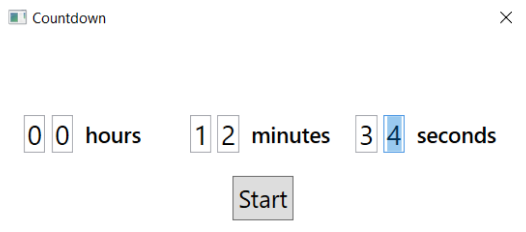
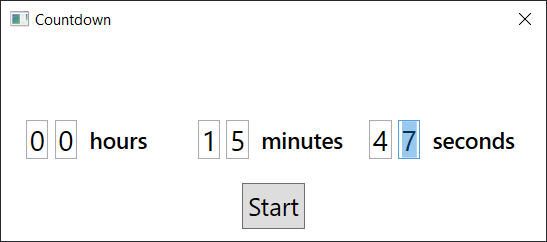
Update lightbox and fix images

diff --git a/src/routes/projects.svelte b/src/routes/projects.svelte
@@ -1,13 +1,15 @@
 <script>
     import ProjectListing from "../lib/components/ProjectListing.svelte"
+    import LightImg from "../lib/components/LightImg.svelte"
 </script>
 
 <div class="projects">
     <h1>Projects</h1>
     <div class="demos">
         <ProjectListing title="School entrance exam manager"
+                        id="exam"
                         bubbles="{[
-                            ['Fullstack webapp', '#18AC00'], ['JS & TypeScript', '#EFD81D'], ['React', '#61DAFB'],
+                            ['Fullstack webapp', '#18AC00'], ['JS & TypeScript', '#CDB70E'], ['React', '#61DAFB'],
                             ['C# & ASP.NET', '#3A008C'], ['GraphQL', '#E632AC'], ['Redux', '#764ABC'], ['JWT', '#D63AFF']
                         ]}">
             <div slot="description">
@@ -25,11 +27,12 @@
                 <a href="" style:background="#00B934">Download</a>
             </div>
             <div slot="preview">
-                <img src="/project_images/exam_user.png" alt="Exam manager user screen">
-                <img src="/project_images/exam_admin.png" alt="Exam manager admin screen">
+                <LightImg src="/project_images/exam_user.png" id="exam_user" parentId="exam" />
+                <LightImg src="/project_images/exam_admin.png" id="exam_admin" parentId="exam" />
             </div>
         </ProjectListing>
         <ProjectListing title="OEM Info Tool"
+                        id="oem"
                         bubbles="{[
                             ['Platform: Windows', '#18AC00'], ['C#', '#3A008C'],
                             ['WPF', '#C69A00'], ['MVVM', '#C64700']
@@ -48,13 +51,14 @@
                 <a href="" style:background="#00B934">Download</a>
             </div>
             <div slot="preview">
-                <img src="/project_images/oem_info.png" alt="Screenshot of the tool">
+                <LightImg src="/project_images/oem_tool.png" id="oem_screenshot" parentId="oem" />
             </div>
         </ProjectListing>
         <ProjectListing title="tilde.cz"
+                        id="tilde"
                         bubbles="{[
                             ['Static website', '#18AC00'], ['Svelte', '#FF3E00'],
-                            ['JS & TS', '#EFD81D'], ['CSS & Sass', '#2449D8']]}">
+                            ['JS & TS', '#CDB70E'], ['CSS & Sass', '#2449D8']]}">
             <div slot="description">
                 My personal website and blog, <b>coincidentally also this website</b>. It’s my first project in Svelte,
                 which I find to be amazing framework. I put articles and
@@ -70,12 +74,13 @@
                 <a href="" style:background="#00B934">Visit</a>
             </div>
             <div slot="preview">
-                <img src="/project_images/tilde.png" alt="tilde.cz about page screenshot">
+                <LightImg src="/project_images/tilde.png" id="tilde_about" parentId="tilde" />
             </div>
         </ProjectListing>
         <ProjectListing title="Fitness site"
+                        id="fitness"
                         bubbles="{[
-                            ['Static website', '#18AC00'], ['JS & TypeScript', '#EFD81D'],
+                            ['Static website', '#18AC00'], ['JS & TypeScript', '#CDB70E'],
                             ['Tailwind', '#16BECB'], ['React', '#61DBFB'],
                             ['NextJS', '#000000']]}">
             <div slot="description">
@@ -88,10 +93,11 @@
                 <a href="" style:background="#D68D37">Source</a>
             </div>
             <div slot="preview">
-                <img src="/project_images/fitness_site.png" alt="Fitness site screenshot">
+                <LightImg src="/project_images/fitness_site.png" id="fitness_screenshot" parentId="fitness" />
             </div>
         </ProjectListing>
         <ProjectListing title="Countdown app"
+                        id="countdown"
                         bubbles="{[
                             ['Platform: Windows', '#18AC00'], ['C#', '#3A008C'],
                             ['WPF', '#C69A00'], ['MVVM', '#C64700']]}">
@@ -104,7 +110,7 @@
                 <a href="" style:background="#00B934">Download</a>
             </div>
             <div slot="preview">
-                <img src="/project_images/countdown.png" alt="Screenshot of the tool">
+                <LightImg src="/project_images/countdown.png" id="countdown_screenshot" parentId="countdown" />
             </div>
         </ProjectListing>
         <ProjectListing title="My literate Emacs config"
@@ -155,7 +161,7 @@
             </div>
         </ProjectListing>
         <ProjectListing title="Twitter JFIF Renamer"
-                        bubbles="{[['Chrome extension', '#18AC00'], ['JS & TypeScript', '#EFD81D']]}">
+                        bubbles="{[['Chrome extension', '#18AC00'], ['JS & TypeScript', '#CDB70E']]}">
             <div slot="description">
                 Simple Chrome extension that renames all downloaded .JFIF files (format Twitter stores images in) into
                 .JPG, so that they can be used properly.

diff --git a/src/lib/components/ProjectListing.svelte b/src/lib/components/ProjectListing.svelte
@@ -1,9 +1,10 @@
 <script>
     export let title = ""
     export let bubbles = []
+    export let id = ""
 </script>
 
-<div class="listing" class:has-preview={$$slots.preview}>
+<div class="listing" class:has-preview={$$slots.preview} {id}>
     {#if $$slots.preview}
         <slot name="preview" />
     {/if}
@@ -31,12 +32,16 @@
     font-size: 1.25rem;
     margin: 0;
     font-weight: 500;
-    color: #9C5808;
+    color: var(--accent-text-color);
   }
 
   :global([slot="preview"]) {
     display: grid;
     place-content: center;
+    gap: 1rem;
+    @media (min-width: 768px) {
+      max-width: 50%;
+    }
 
     :global(img) {
       object-fit: scale-down;
@@ -101,13 +106,13 @@
     padding: 0 0.4rem;
 
     color: white;
+    font-size: 1.1rem;
 
     > * {
       display: grid;
       padding: 1px 0.5rem;
       place-content: center;
       border-radius: 0.5rem;
-
       white-space: nowrap;
     }
   }
@@ -133,6 +138,8 @@
     align-items: stretch;
     padding: 1rem;
     gap: 0.625rem;
+
+    scroll-margin-top: 1.5rem;
 
     border: 1px solid #474747;
     border-radius: 3px;

diff --git a/src/lib/components/LightImg.svelte b/src/lib/components/LightImg.svelte
@@ -1,0 +1,48 @@
+<!-- Simple Lightbox implementation -->
+
+<script>
+    export let src
+    export let id
+    export let parentId = ""
+    export let alt = ""
+</script>
+
+<a href="#{id}" class="image">
+    <img {src} {alt}>
+</a>
+
+<a href="#{parentId}" class="lightbox" {id}>
+    <img src={src} {alt} />
+</a>
+
+<style lang="scss">
+  .image {
+    img {
+      max-width: 100%;
+    }
+  }
+
+  .lightbox {
+    display: none;
+
+    position: fixed;
+    z-index: 1000;
+    top: 0;
+    left: 0;
+    right: 0;
+    bottom: 0;
+
+    padding: 2rem;
+    background: rgba(0, 0, 0, .8);
+
+    &:target {
+      display: grid;
+      place-content: center;
+    }
+
+    > img {
+      display: inline-block;
+      min-height: 50vh;
+    }
+  }
+</style>
